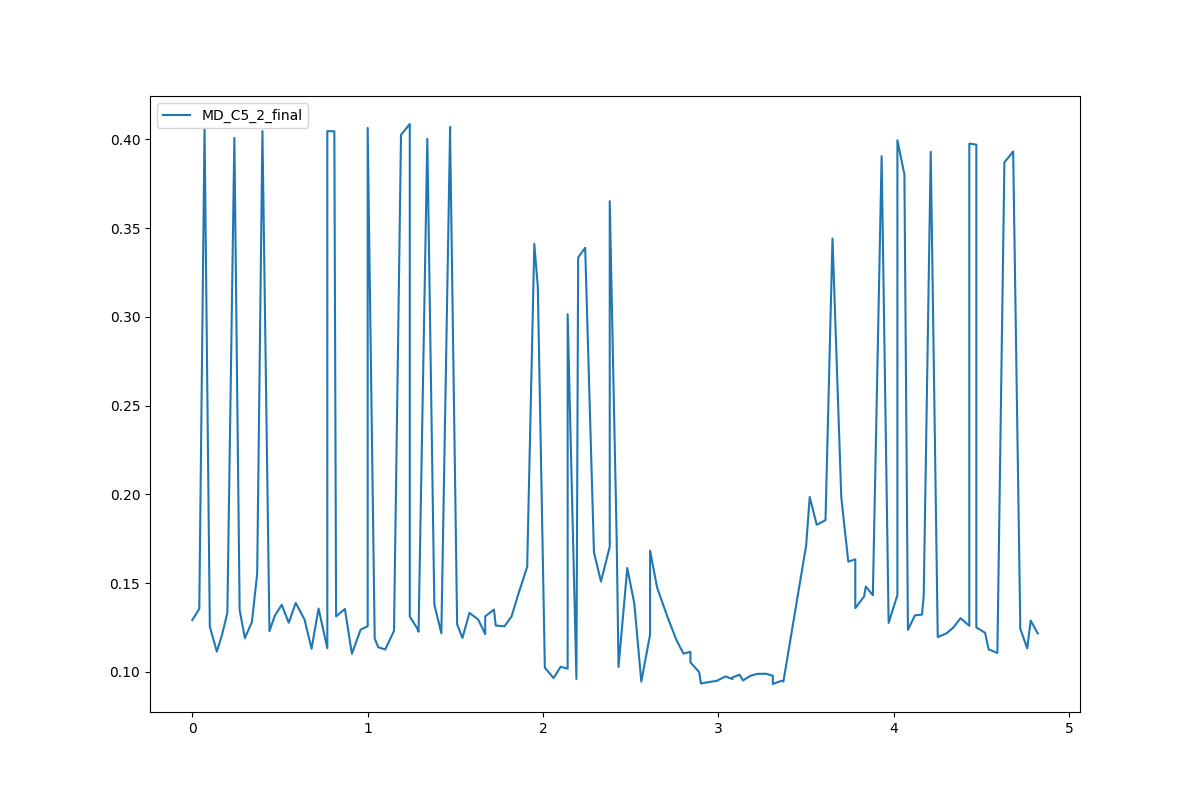
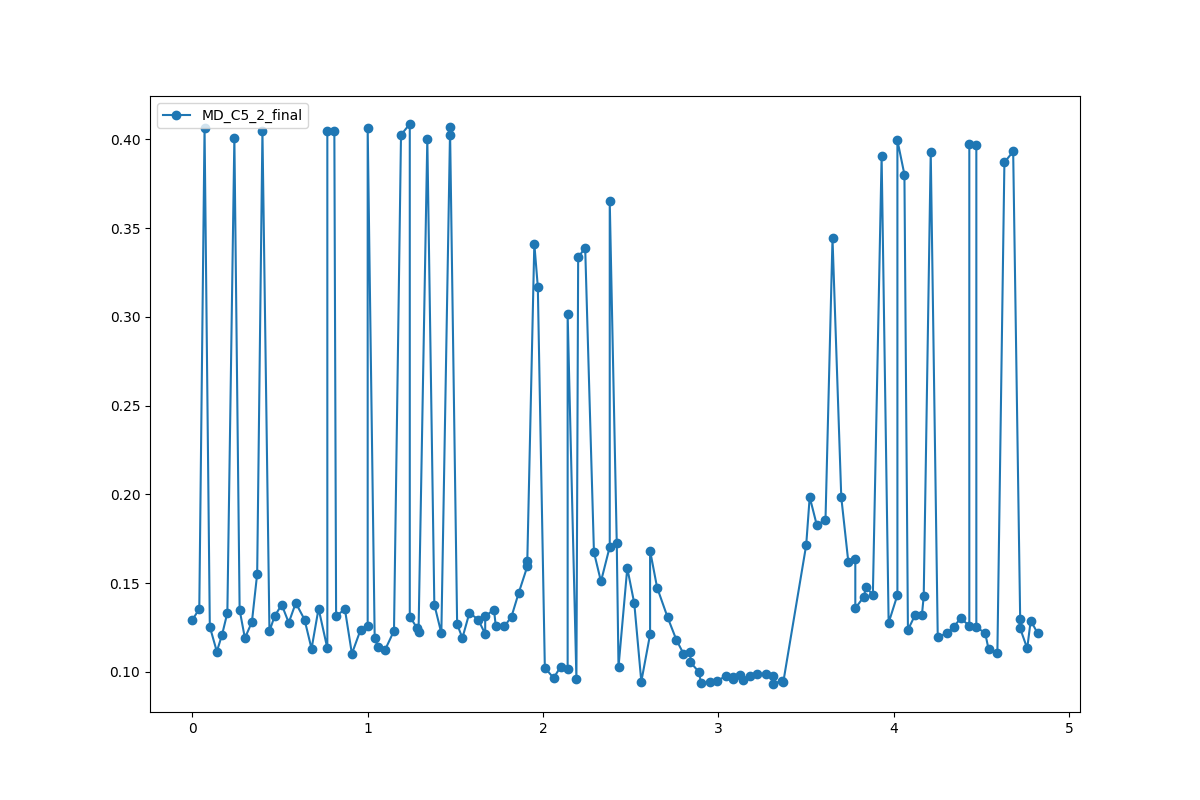
save separate plots for each file

diff --git a/plot_aperture.py b/plot_aperture.py
@@ -1,9 +1,6 @@
 from os import listdir, makedirs
 from os.path import isfile, join, exists
-
-from matplotlib.font_manager import FontProperties
 from scipy.spatial import distance
-
 from load_df_from_csv import load
 import numpy as np
 import matplotlib.pyplot as plt
@@ -27,7 +24,7 @@ def plot_aperture(list_of_files):
         # remove the timestamps for which there was a point missing either from the index or thumb fingertips
         [timestamps.pop(idx) for idx in blacklist]
         # plot
-        plt.plot(timestamps, aperture, label=filename[:-4])[0]
+        plt.plot(timestamps, aperture, label=filename[:-4], marker='o')
 
         plt.legend(loc="upper left")
         plt.savefig(path + "aperture_" + filename[:-4])  # remove the .csv extension
@@ -42,7 +39,7 @@ def plot_aperture(list_of_files):
         # remove the timestamps for which there was a point missing either from the index or thumb fingertips
         [timestamps.pop(idx) for idx in blacklist]
         # plot
-        plt.plot(timestamps, aperture, label=filename)[0]
+        plt.plot(timestamps, aperture, label=filename)
 
     plt.legend(loc="upper left")
     plt.savefig(path + "total_aperture")
